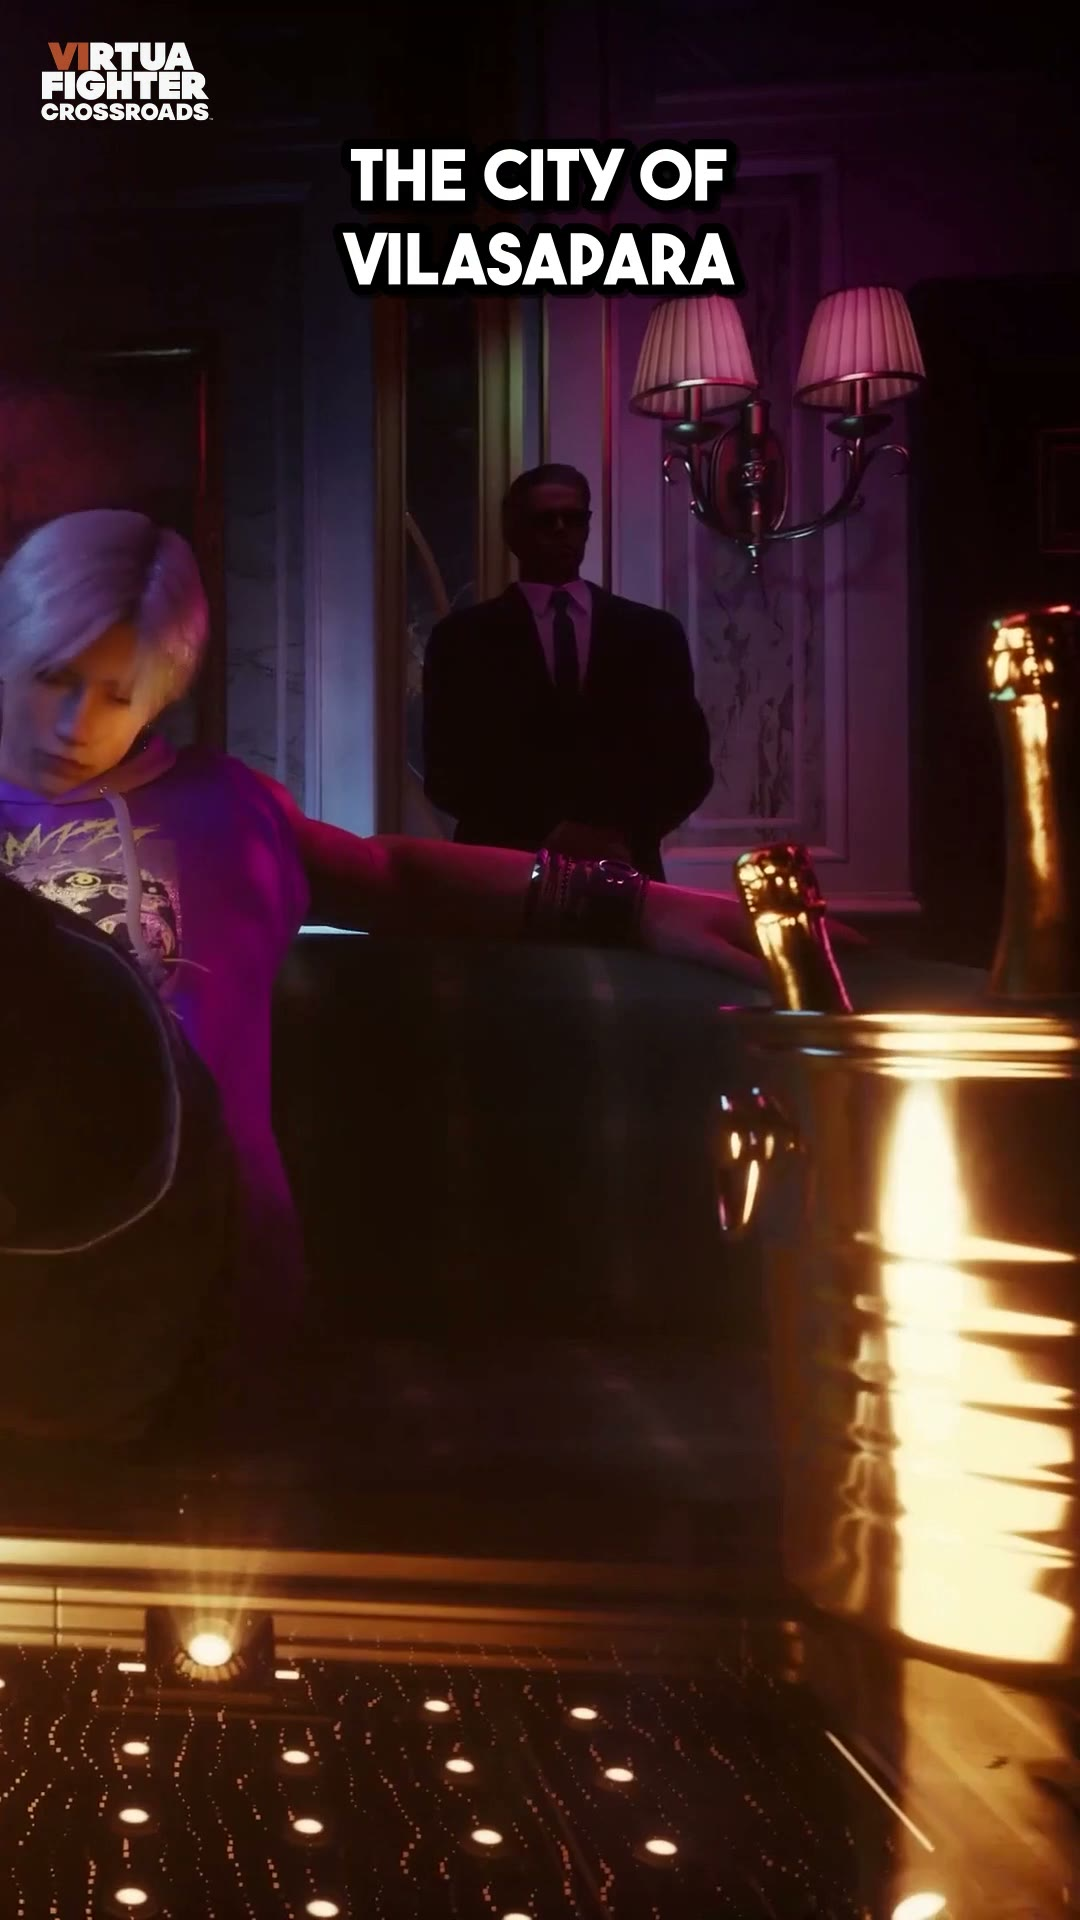
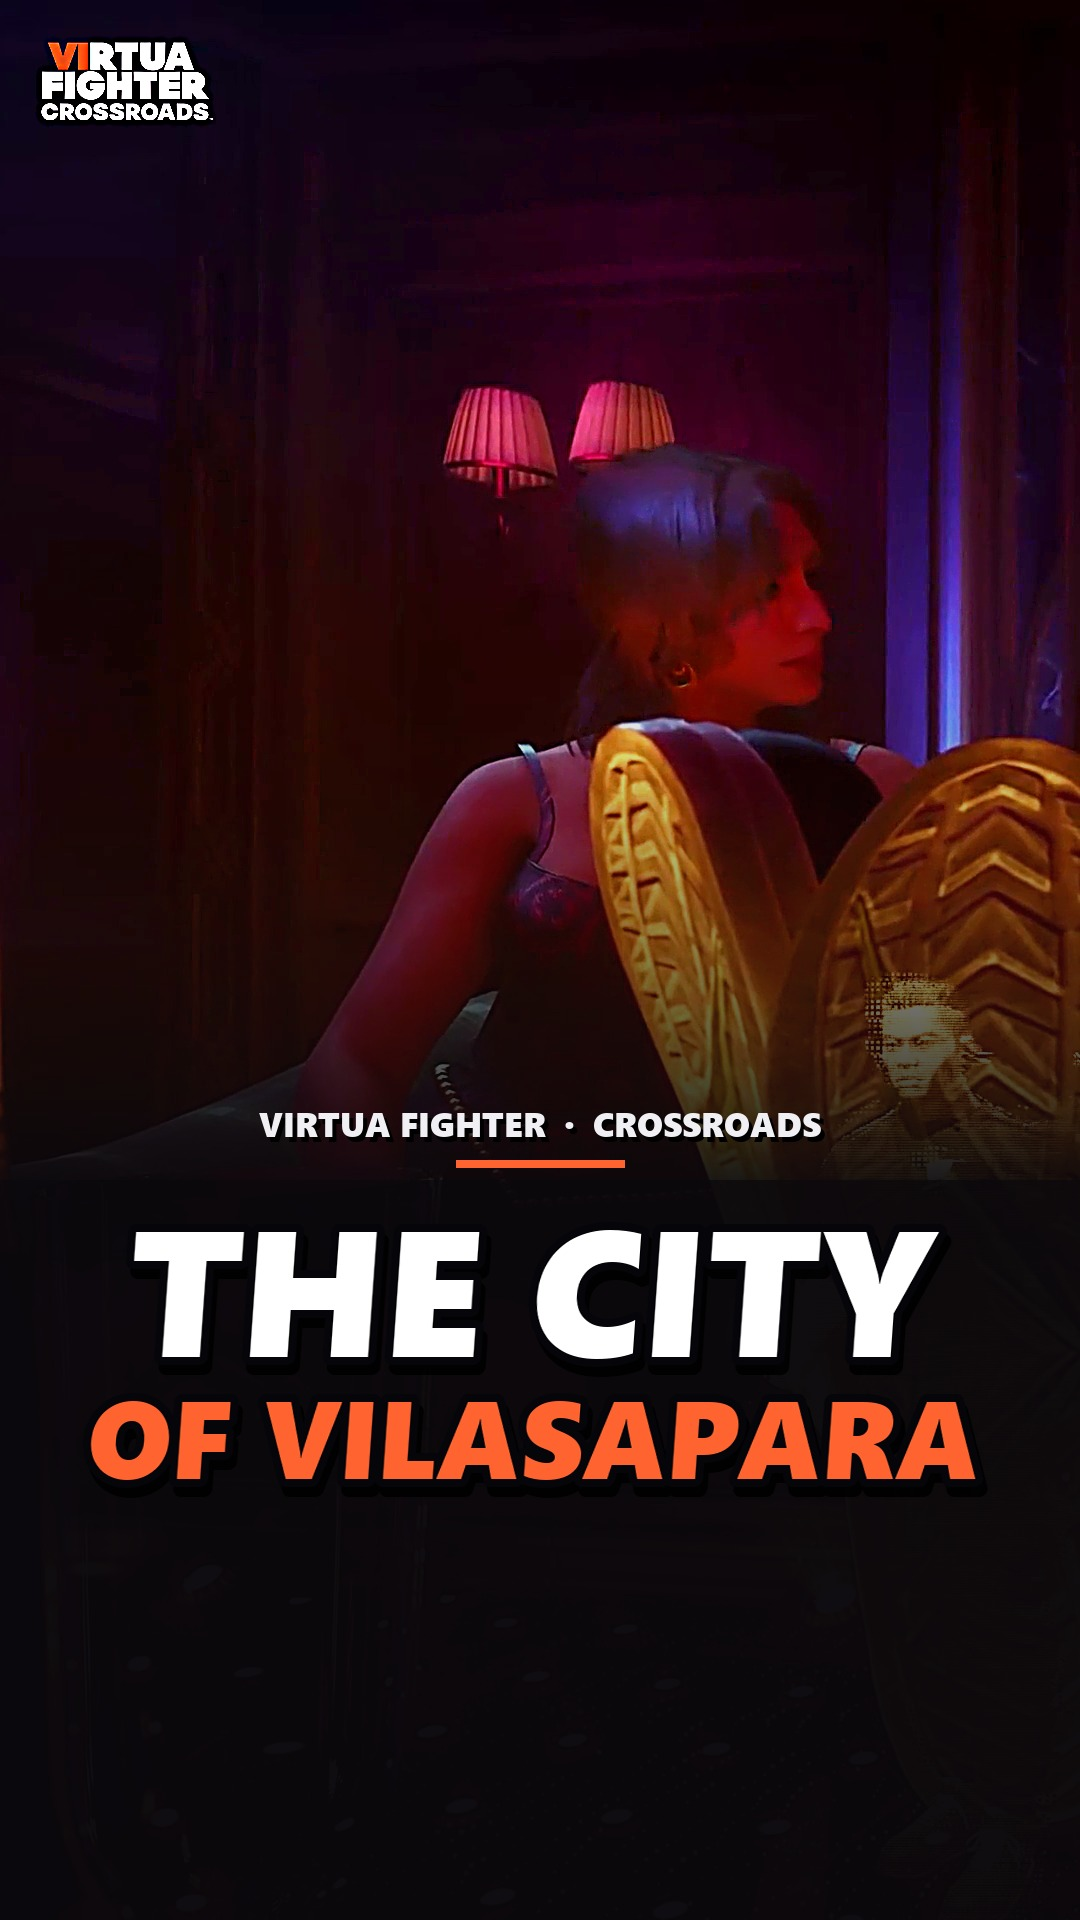
feat(publish): design the SEGA reel covers
The staged covers were plain frames at 2.5 s, which carried the burned hook
title and nothing else. These are graded, headline-set covers built from the
staged clips, each grabbed past the 4 s title fade so no cover shows the same
line twice, and kept inside Instagram's 4:5 grid crop.

diff --git a/tools/make_sega_covers.py b/tools/make_sega_covers.py
@@ -1,0 +1,154 @@
+"""Render the 1080x1920 Instagram covers for the SEGA Virtua Fighter reels.
+
+Usage: python tools/make_sega_covers.py [sv01 sv02 ...]
+
+Frames come from the staged clips themselves, so a cover can never drift from
+what the reel shows. Every t sits past the burned hook title (it clears at 4 s),
+otherwise the cover would carry the same headline twice.
+"""
+
+import os
+import subprocess
+import sys
+import tempfile
+
+from PIL import Image, ImageChops, ImageDraw, ImageEnhance, ImageFilter, ImageFont
+
+ROOT = os.path.dirname(os.path.dirname(os.path.abspath(__file__)))
+CLIPS = os.path.join(ROOT, "clips-highlight")
+OUT = os.path.join(ROOT, "covers-highlight")
+FONT = "C:/Windows/Fonts/seguibl.ttf"
+
+W, H = 1080, 1920
+WHITE = (255, 255, 255)
+ACCENT = (255, 99, 48)  # the logo's VF mark, pushed bright enough to hold on teal
+KICKER = "VIRTUA FIGHTER  ·  CROSSROADS"
+MAX_W = 900
+TEXT_BOTTOM = 1470  # keeps every headline inside Instagram's 4:5 grid crop
+LINE_GAP = 26
+SHEAR = 0.07  # italic lean, so a still frame reads as motion
+
+COVERS = {
+    "sv01": dict(t=4.5, lines=[("MEET", WHITE), ("LIONEL", WHITE), ("RAFALE", ACCENT)]),
+    "sv02": dict(t=11, lines=[("RAFALE", WHITE), ("VS CIELO", ACCENT)]),
+    "sv03": dict(t=9, lines=[("STREET FIGHT", ACCENT), ("IN VILASAPARA", WHITE)]),
+    "sv04": dict(t=5, lines=[("THE CITY", WHITE), ("OF VILASAPARA", ACCENT)]),
+    "sv05": dict(t=4.5, lines=[("WHY HE", WHITE), ("CAME HERE", ACCENT)]),
+}
+
+
+def grab(name, t):
+    fd, path = tempfile.mkstemp(suffix=".png")
+    os.close(fd)
+    subprocess.run(
+        ["ffmpeg", "-y", "-loglevel", "error", "-ss", str(t),
+         "-i", os.path.join(CLIPS, f"{name}.mp4"), "-frames:v", "1", path],
+        check=True,
+    )
+    img = Image.open(path).convert("RGB").resize((W, H), Image.LANCZOS)
+    os.unlink(path)
+    return img
+
+
+def punch(img):
+    img = ImageEnhance.Color(img).enhance(1.34)
+    img = ImageEnhance.Contrast(img).enhance(1.16)
+    img = ImageEnhance.Brightness(img).enhance(1.04)
+    return img.filter(ImageFilter.UnsharpMask(radius=3, percent=140, threshold=3))
+
+
+def scrim(img):
+    """Shade only the lower half; the burned logo sits top-left and must stay readable."""
+    grad = Image.new("L", (1, H), 0)
+    px = grad.load()
+    for y in range(H):
+        if y < 620:
+            a = 0
+        elif y < 1180:
+            a = int(238 * ((y - 620) / 560) ** 1.25)
+        else:
+            a = 250
+        px[0, y] = a
+    grad = grad.resize((W, H))
+
+    bed = Image.new("L", (W, H), 0)
+    ImageDraw.Draw(bed).rectangle([0, 1120, W, 1760], fill=250)
+    grad = ImageChops.lighter(grad, bed.filter(ImageFilter.GaussianBlur(70)))
+
+    img.paste(Image.new("RGB", (W, H), (10, 8, 12)), (0, 0), grad)
+    return img
+
+
+def fit(draw, text, max_w, max_size=178, min_size=78):
+    size = max_size
+    while size > min_size:
+        f = ImageFont.truetype(FONT, size)
+        if draw.textlength(text, font=f) <= max_w:
+            return f
+        size -= 2
+    return ImageFont.truetype(FONT, min_size)
+
+
+def line_sprite(text, font, color):
+    """One headline line: black drop, hard stroke, sheared for lean."""
+    pad, stroke = 46, 8
+    x0, y0, _, y1 = font.getbbox(text)
+    w = int(font.getlength(text)) + pad * 2
+    h = (y1 - y0) + pad * 2
+
+    sprite = Image.new("RGBA", (w, h), (0, 0, 0, 0))
+    d = ImageDraw.Draw(sprite)
+    ox, oy = pad - x0, pad - y0
+    d.text((ox + 5, oy + 10), text, font=font, stroke_width=stroke,
+           fill=(0, 0, 0, 220), stroke_fill=(0, 0, 0, 220))
+    d.text((ox, oy), text, font=font, stroke_width=stroke,
+           fill=color + (255,), stroke_fill=(6, 6, 10, 255))
+
+    lean = int(h * SHEAR)
+    out = sprite.transform((w + lean, h), Image.AFFINE,
+                           (1, SHEAR, -SHEAR * h / 2, 0, 1, 0), resample=Image.BICUBIC)
+    return out
+
+
+def render(name, cfg):
+    img = scrim(punch(grab(name, cfg["t"])))
+    draw = ImageDraw.Draw(img)
+
+    fonts = [fit(draw, text, MAX_W) for text, _ in cfg["lines"]]
+    heights = [
+        (lambda b: b[3] - b[1])(draw.textbbox((0, 0), text, font=f, stroke_width=8))
+        for (text, _), f in zip(cfg["lines"], fonts)
+    ]
+    block = sum(heights) + LINE_GAP * (len(cfg["lines"]) - 1)
+    top = TEXT_BOTTOM - block
+
+    kfont = ImageFont.truetype(FONT, 34)
+    kw = draw.textlength(KICKER, font=kfont)
+    ky = top - 104
+    draw.text(((W - kw) / 2 + 4, ky + 5), KICKER, font=kfont, fill=(0, 0, 0))
+    draw.text(((W - kw) / 2, ky), KICKER, font=kfont, fill=(240, 240, 244))
+    draw.rectangle([W / 2 - 84, ky + 60, W / 2 + 84, ky + 67], fill=ACCENT)
+
+    y = top
+    for (text, color), f, h in zip(cfg["lines"], fonts, heights):
+        sprite = line_sprite(text, f, color)
+        img.paste(sprite, ((W - sprite.width) // 2, y - 20), sprite)
+        y += h + LINE_GAP
+
+    out = os.path.join(OUT, f"{name}.jpg")
+    img.save(out, "JPEG", quality=92, optimize=True)
+    return out
+
+
+def main():
+    names = sys.argv[1:] or list(COVERS)
+    unknown = [n for n in names if n not in COVERS]
+    if unknown:
+        sys.exit(f"unknown cover(s): {', '.join(unknown)}")
+    for name in names:
+        out = render(name, COVERS[name])
+        print(f"{name}: {os.path.getsize(out) // 1024} KB -> {out}")
+
+
+if __name__ == "__main__":
+    main()
